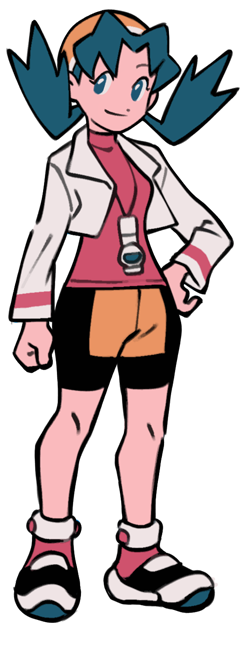
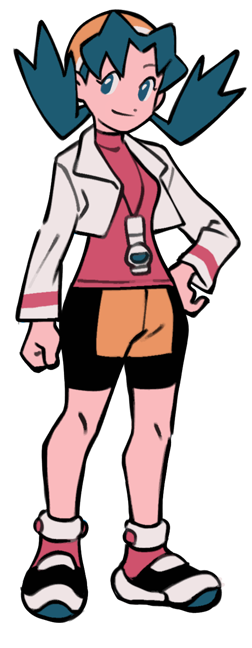
Add files via upload

diff --git a/POKÉMON CHAMP_files/style.css b/POKÉMON CHAMP_files/style.css
@@ -153,17 +153,17 @@ body{
 
 #leaf {     width: 147px;}
 #redyoung { width: 123px;}
-#crys {     width: 121px;}
+#crys {     width: 126px;}
 #gold {     width: 118px;}
 #lyra {     width: 137px;}
 #brendan {  width: 142px;}
 #may {      width: 135px;}
 #lucas {    width: 121px;}
-#hikari {   width: 129px;}
+#hikari {   width: 135px;}
 #touko {    width: 125px;}
 #touya {    width: 121px;}
 #mei {      width: 144px;}
-#kyohei {   width: 147px;}
+#kyohei {   width: 151px;}
 #calem {    width: 139px;}
 #serena {   width: 156px;}
 #sun {      width: 118px;}
